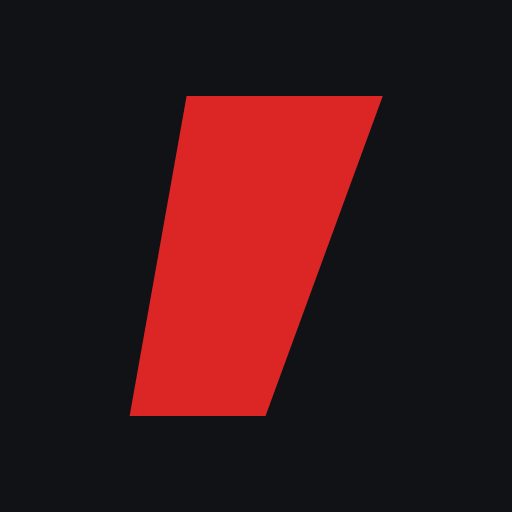
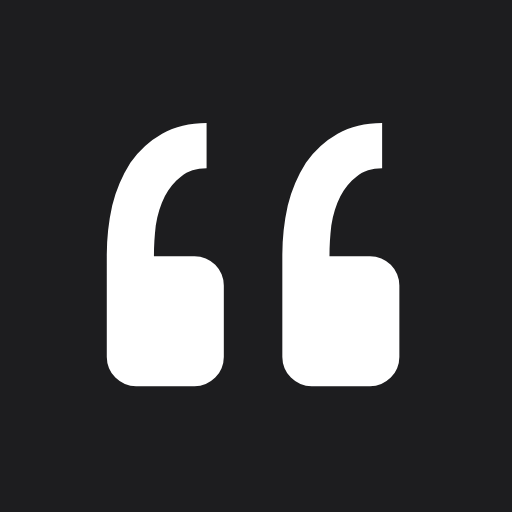
Ícones: a vela vermelha sai, entram as aspas
O favicon (ícone da aba) e os PNGs de instalação no celular
(192/512) passaram a usar o mesmo desenho de aspas da barra, no
fundo escuro do cabeçalho. O PNG é quadrado e opaco de propósito:
o iOS e o Android aplicam o próprio recorte, e canto transparente
às vezes vira preto no iPhone.

O og-image (a imagem de compartilhamento) também foi refeito: no
lugar de "sai daí, galaseca" com o acento vermelho, agora mostra as
aspas ao lado de "Galaseca".

Teste novo trava a marca dos ícones: sem vermelho da vela antiga,
com as aspas em branco e o fundo escuro dominando o quadro.

Changed region(s): [[0.1875, 0.1875, 0.7812, 0.8125]]

diff --git a/tests/test_public_site.py b/tests/test_public_site.py
@@ -3514,6 +3514,29 @@ def test_manifest_json_tem_icones_png(client):
         assert resp.mimetype == "image/png"
 
 
+def test_icones_do_site_usam_a_marca_das_aspas(client):
+    """Decisão de 2026-11-11: o ícone da aba e o do celular passaram a ser
+    as mesmas aspas da barra -- a vela vermelha da marca antiga saiu."""
+    svg = client.get("/static/favicon.svg").data.decode("utf-8")
+    assert "#dc2626" not in svg                # vermelho da vela antiga
+    assert "#ffffff" in svg                    # aspas em branco
+    assert "M12 12a1 1 0 0 0 1-1" in svg       # desenho das aspas
+
+    from PIL import Image
+    import io
+    for nome, lado in (("icon-192.png", 192), ("icon-512.png", 512)):
+        dados = client.get(f"/static/{nome}").data
+        img = Image.open(io.BytesIO(dados)).convert("RGB")
+        assert img.size == (lado, lado)
+        px = img.load()
+        brancos = sum(1 for y in range(lado) for x in range(lado)
+                      if sum(px[x, y]) > 600)
+        escuros = sum(1 for y in range(lado) for x in range(lado)
+                      if sum(px[x, y]) < 200)
+        assert brancos > lado * lado * 0.05   # aspas
+        assert escuros > lado * lado * 0.70   # fundo escuro
+
+
 def test_apple_touch_icon_usa_png_nao_svg(client, monkeypatch):
     monkeypatch.setattr(scan_store, "load_last_scan", lambda: None)
     body = client.get("/").data.decode("utf-8")

diff --git a/galaseca/public_site/changelog.py b/galaseca/public_site/changelog.py
@@ -17,6 +17,9 @@ ENTRADAS = [
             "O nome do site nos títulos das páginas passou a ser "
             "“Galaseca”, com G maiúsculo -- o resto do texto continua "
             "“galaseca”",
+            "O ícone da aba do navegador e o do celular (instalar na tela "
+            "de início) passaram a ser as mesmas aspas da barra, sem a "
+            "vela vermelha da marca antiga",
         ],
     },
     {
